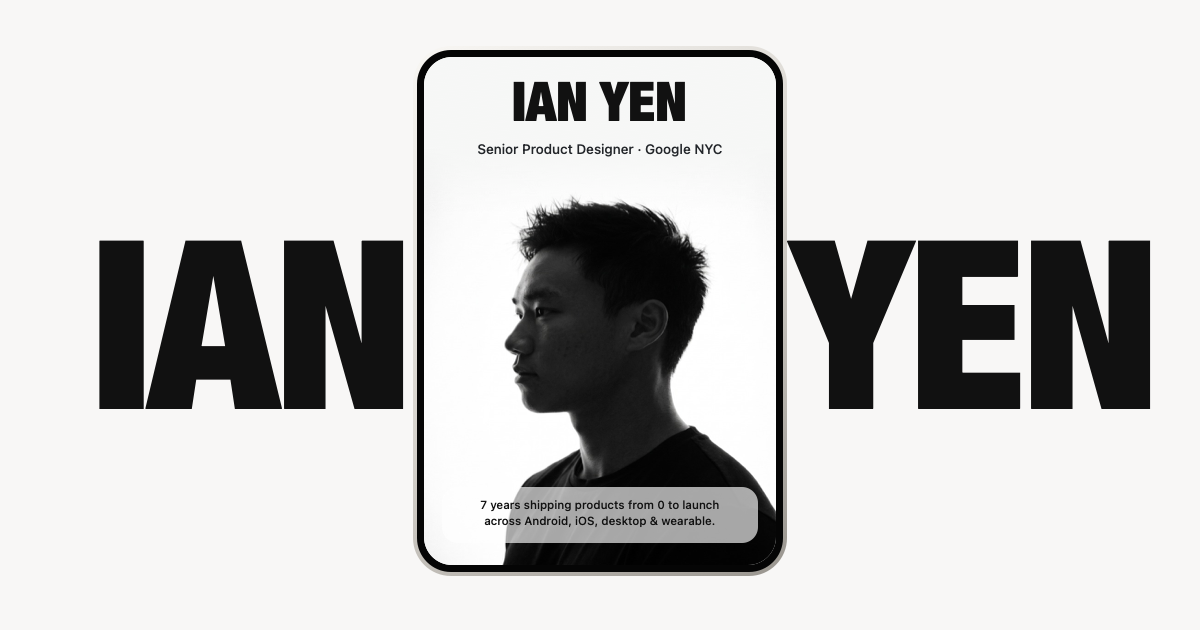
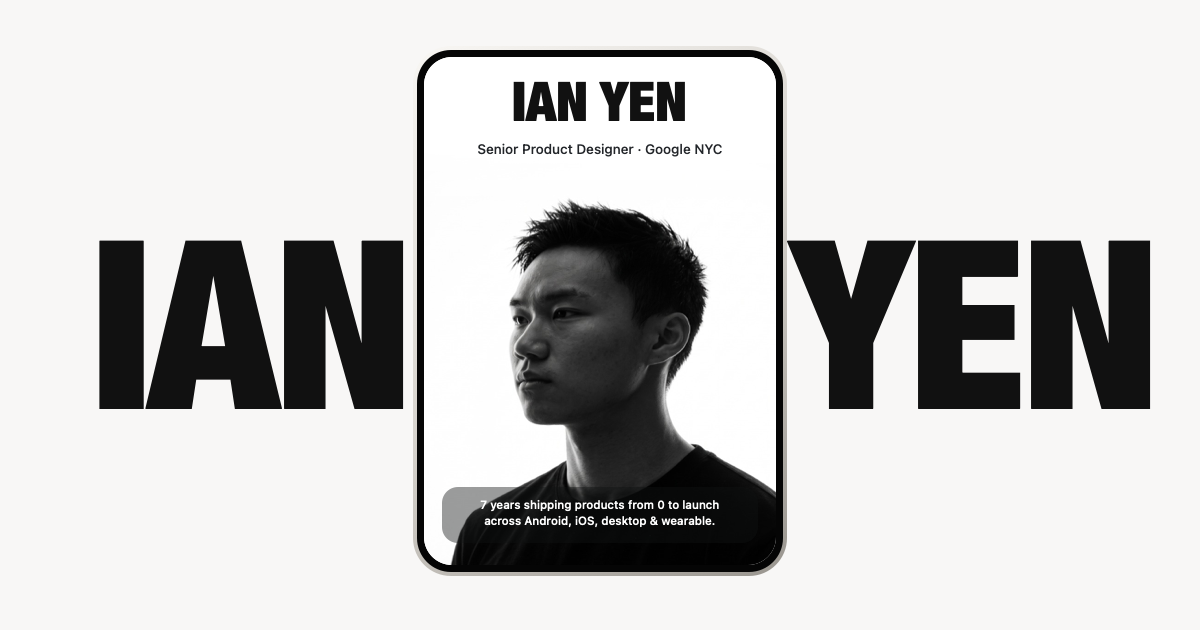
Swap hero and OG preview to final crisp 3/4 backlit portrait on seamless white

Changed region(s): [[0.37, 0.3016, 0.6475, 0.9048]]

diff --git a/index.html b/index.html
@@ -30,11 +30,11 @@
   <link href="https://fonts.googleapis.com/css2?family=Big+Shoulders+Display:wght@600;700;800;900&family=Caveat:wght@500;600;700&family=Fraunces:ital,opsz,wght@0,9..144,100..900;1,9..144,100..900&family=Geist+Mono:wght@400;500;600&family=Geist:wght@300;400;500;600;700&family=Inter:wght@300;400;500;600&family=Sofia+Sans+Extra+Condensed:wght@800;900&display=swap" rel="stylesheet">
   <link rel="preload" as="font" type="font/ttf" href="assets/fonts/GoogleSansFlex-Variable.ttf" crossorigin>
   <link rel="preload" as="font" type="font/ttf" href="assets/fonts/GoogleSansMono-Variable.ttf" crossorigin>
-  <link rel="preload" as="image" href="assets/ian_profile_bw.jpg?v=242" fetchpriority="high">
+  <link rel="preload" as="image" href="assets/ian_profile_bw.jpg?v=249" fetchpriority="high">
   <link rel="preload" as="image" href="assets/memoji_about_bust.gif?v=202" fetchpriority="high">
   <link rel="preload" as="image" href="assets/avatar_real_photo.jpg?v=153" fetchpriority="high">
   <link rel="stylesheet" href="style.css?v=234">
-  <link rel="stylesheet" href="foldfolio.css?v=248">
+  <link rel="stylesheet" href="foldfolio.css?v=249">
 </head>
 <body data-theme="light">
   <!-- Viewport-Wrapping Device Frame Bezel (Active When Zoomed Inside Opened Foldable Phone) -->
@@ -173,7 +173,7 @@
                 <div class="fold-bezel">
                   <div class="fold-screen">
                     <div class="fold-lock-screen">
-                      <img src="assets/ian_profile_bw.jpg?v=242" alt="Ian Yen editorial side-profile portrait" class="fold-lock-portrait-full" decoding="sync">
+                      <img src="assets/ian_profile_bw.jpg?v=249" alt="Ian Yen editorial side-profile portrait" class="fold-lock-portrait-full" decoding="sync">
                       <div class="fold-lock-portrait-fade" aria-hidden="true"></div>
 
                       <div class="fold-lock-top">

diff --git a/foldfolio.css b/foldfolio.css
@@ -813,7 +813,7 @@ body[data-fold-bg="orbit"] .fold-ambient-orbit { opacity: 1; }
   position: relative;
   width: 100%;
   height: 100%;
-  background: #F4F5F4;
+  background: #FFFFFF;
   display: flex;
   flex-direction: column;
   align-items: center;
@@ -842,7 +842,7 @@ body[data-fold-bg="orbit"] .fold-ambient-orbit { opacity: 1; }
   right: 0;
   top: 90px;
   height: 48px;
-  background: linear-gradient(180deg, #F4F5F4 0%, rgba(244, 245, 244, 0) 100%);
+  background: linear-gradient(180deg, #FFFFFF 0%, rgba(255, 255, 255, 0) 100%);
   z-index: 2;
   pointer-events: none;
 }
@@ -911,7 +911,7 @@ body.is-fold-mode[data-theme="dark"] .fold-inside-right-panel.is-history-panel {
 
 /* Keep the backlit studio lock screen crisp & high-contrast in BOTH light & dark themes */
 body.is-fold-mode[data-theme="dark"] .fold-lock-screen {
-  background: #F4F5F4;
+  background: #FFFFFF;
 }
 body.is-fold-mode[data-theme="dark"] .fold-lock-time,
 body.is-fold-mode[data-theme="dark"] .fold-lock-sub {
